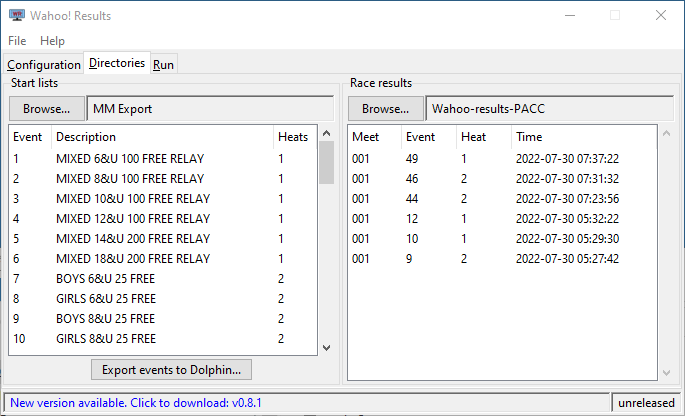
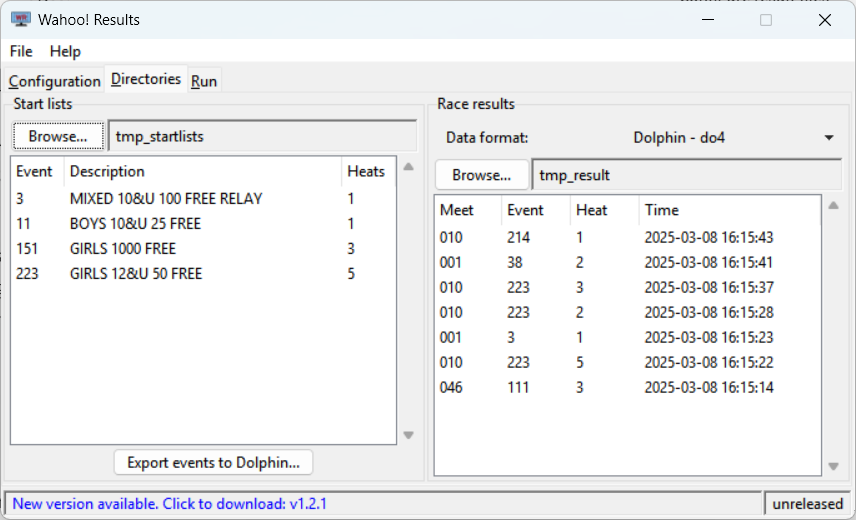
Update docs for new configuration options

diff --git a/docs/configuration.md b/docs/configuration.md
@@ -90,6 +90,18 @@ Time threshold
 The "Minimum times" and "Time threshold" settings are designed to prevent
 potentially unreliable or incorrect times from being shown to spectators.
 
+DQ
+
+:   This setting determines how disqualifications are shown on the scoreboard.
+    The available options are:  
+    **`Ignore`:** DQ is ignored and not shown on the scoreboard.  
+    **`DQ w/ time`:** "DQ" is shown in the "place" column and the swimmer's time
+    is still shown.  
+    **`DQ hides time`:** "DQ" is shown instead of the swimmer's time and no
+    place is awarded.  
+    **Note:** Only some result formats (e.g., Dolphin CSV) record the presence of
+    a DQ.
+
 {{ CLEARFLOAT }}
 
 ## Directories tab
@@ -100,7 +112,7 @@ potentially unreliable or incorrect times from being shown to spectators.
 </figure>
 
 The Directories tab configures where the scoreboard will search for start list
-(`*.ECB`) files and race result (`*.DO4`) files.
+(`*.ECB`) files and race result files.
 
 The left pane is for the start list files. Use the ++"Browse..."++ button to
 select the directory where the start lists reside. The start list files will be
@@ -110,10 +122,16 @@ The ++"Export events to Dolphin..."++ button will generate a
 `dolphin_events.csv` file in the start list directory that is suitable for
 import into the Dolphin software.
 
-The right pane is for race result files. Use the ++"Browse..."++ button to
-select the directory where the race result files will be written by the Dolphin
-software. Any race result files that are found will be displayed in the table,
-ordered by their timestamp.
+The right pane is for race result files. {{ WR }} can read several timing
+system file formats. Use the `Data format` dropdown to select the desired
+format. Available options include:
+
+- Dolphin CSV: Dolphin timing system CSV files.
+- Dolphin DO4: Dolphin timing system DO4 files. (default)
+
+Use the ++"Browse..."++ button to select the directory where the race result
+files will be written by the timing software. Any race result files that are
+found will be displayed in the table, ordered by their timestamp.
 
 {{ CLEARFLOAT }}
 

diff --git a/docs/faq.md b/docs/faq.md
@@ -2,13 +2,13 @@
 
 ## I'm not getting any results
 
-The scoreboard displays race results when a new `DO4` file appears in the
-configured log directory.
+The scoreboard displays race results when a new result file appears in the
+configured result directory.
 
 1. Ensure the Dolphin software is [configured to
-   generate](quickstart.md#configure-result-files) `DO4` files in addition to
-   any other type of log file you may be using.
-1. Ensure {{ WR }} is configured to [watch the correct log
+   generate](quickstart.md#configure-result-files) the same type of result
+   files that you have selected in the "Directories" tab.
+1. Ensure {{ WR }} is configured to [watch the correct result file
    directory](quickstart.md#set-the-results-directory).
 
 ## I get results, but none of the swimmer's names are displayed
@@ -22,7 +22,7 @@ event/heat.
 
 ## The event and heat number are wrong
 
-The event and heat number are read from the `DO4` result file. Ensure the
+The event and heat number are read from the race result file. Ensure the
 Dolphin software displays the correct event and heat number for each race.
 
 ## My Chromecast devices aren't being discovered

diff --git a/docs/quickstart.md b/docs/quickstart.md
@@ -133,8 +133,8 @@ Still in the Dolphin software, switch to the "Settings" screen. Here, you will
 configure the location and type of race results the Dolphin software will
 generate.
 
-{{ WR }} reads race results from Dolphin `DO4` files, so ensure that format is
-enabled. It's fine to enable other formats as well.
+By default, {{ WR }} looks for race results in the Dolphin `DO4` file format,
+so ensure that format is enabled. It's fine to enable other formats as well.
 
 Make a note of the log directory that is being used. This is where the result
 files will be written. You will configure {{ WR }} with this directory in the
